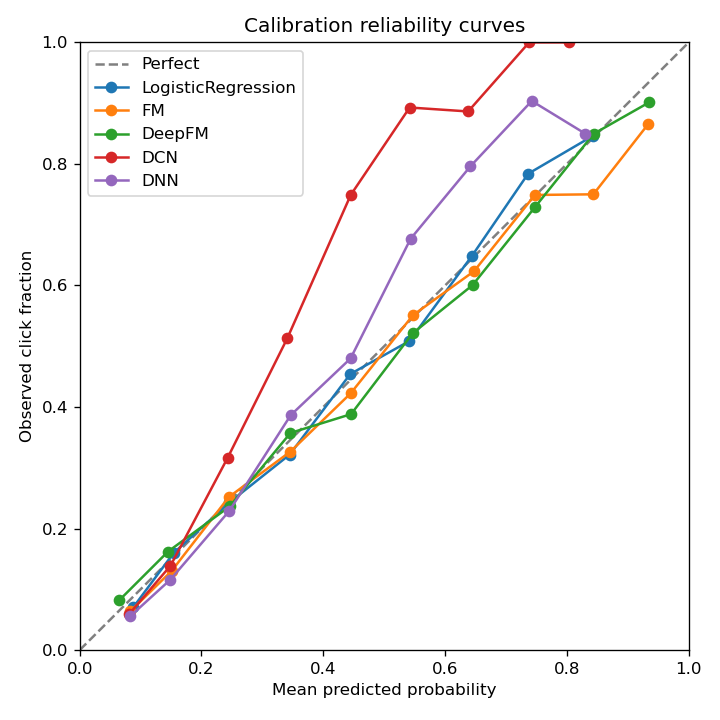
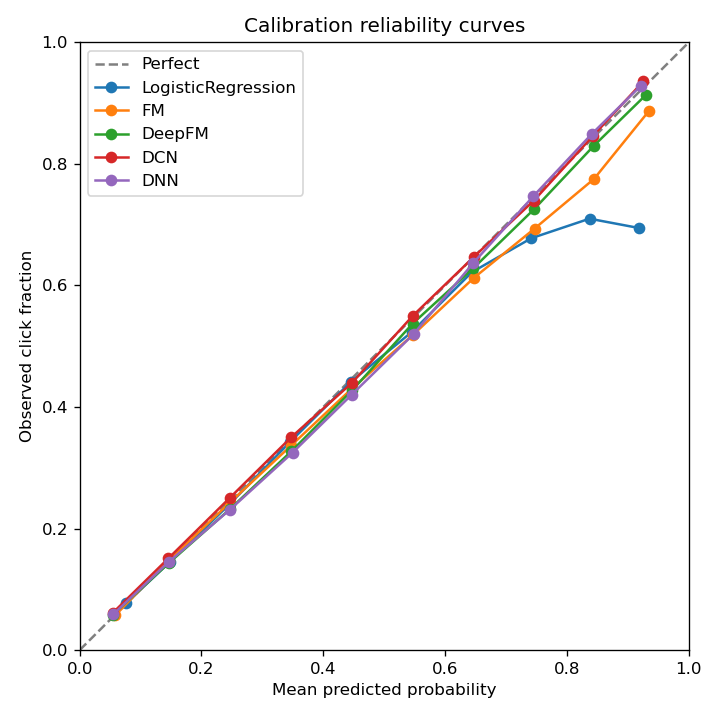
Report real Criteo benchmark results on 2M rows

diff --git a/README.md b/README.md
@@ -12,17 +12,17 @@ The project is built around the core problems of ad ranking systems. It covers r
 
 ## Results
 
-The table below comes from a run on 100000 synthetic rows with seed 42. Reproduce it with `python scripts/run_benchmark.py --sample-size 100000`. The same table is mirrored into `results/benchmark_report.md`. Models are sorted by test AUC.
+The table below comes from a run on 2 million rows of the real Criteo Display Advertising Challenge dataset, trained on the first 1.6 million rows with a temporal split and seed 42. The real Criteo click rate is about 25 percent and the categorical fields reach into the hundreds of thousands of unique values. After placing the Criteo file at `data/criteo.csv` you can reproduce this with `python scripts/run_benchmark.py --sample-size 2000000`. The same table is mirrored into `results/benchmark_report.md`. Models are sorted by test AUC.
 
 | Model | AUC | LogLoss | NE | RelaImpr | GAUC | ECE | Train s | Params |
 | --- | --- | --- | --- | --- | --- | --- | --- | --- |
-| DeepFM | 0.7789 | 0.4722 | 0.8141 | 0.1859 | 0.7646 | 0.0196 | 8.2 | 21.6M |
-| DCN | 0.7715 | 0.5046 | 0.8702 | 0.1298 | 0.7581 | 0.0678 | 9.6 | 21.6M |
-| DNN | 0.7708 | 0.4879 | 0.8412 | 0.1588 | 0.7571 | 0.0392 | 8.1 | 21.9M |
-| FM | 0.7419 | 0.5024 | 0.8662 | 0.1338 | 0.7246 | 0.0174 | 13.4 | 21.4M |
-| LogisticRegression | 0.6808 | 0.5365 | 0.9251 | 0.0749 | 0.6832 | 0.0102 | 0.2 | 53 |
+| DeepFM | 0.7872 | 0.4512 | 0.8130 | 0.1870 | 0.7873 | 0.0100 | 132 | 21.6M |
+| DCN | 0.7871 | 0.4508 | 0.8124 | 0.1876 | 0.7871 | 0.0052 | 140 | 21.6M |
+| DNN | 0.7863 | 0.4518 | 0.8141 | 0.1859 | 0.7864 | 0.0107 | 126 | 21.9M |
+| FM | 0.7828 | 0.4553 | 0.8205 | 0.1795 | 0.7829 | 0.0091 | 146 | 21.4M |
+| LogisticRegression | 0.7177 | 0.4983 | 0.8979 | 0.1021 | 0.7177 | 0.0057 | 11 | 53 |
 
-DeepFM, DCN, DNN, and FM all beat the logistic regression baseline. DeepFM leads at 0.7789 AUC against 0.6808 for logistic regression, a lift of about 0.098 AUC and a drop in normalized entropy from 0.925 to 0.814. The synthetic data carries deliberate pairwise categorical interactions that a linear model cannot represent from raw frequency features, so the interaction aware models pull ahead. Logistic regression stays the best calibrated model by ECE, which is a useful reminder that ranking power and calibration are different axes. See the methodology notes below and the dedicated document in `docs/METHODOLOGY.md` for the full reasoning.
+All four interaction aware models beat the logistic regression baseline on real Criteo data. DeepFM and DCN lead at about 0.787 AUC against 0.718 for logistic regression, a lift of about 0.069 AUC and a drop in normalized entropy from 0.898 to 0.813. On real Criteo the categorical features have very high cardinality, so hash encoding and embeddings are essential, and the high order feature interactions are what separate the deep models from the linear baseline. Every model stays well calibrated with expected calibration error under 0.011. These numbers are in line with published Criteo benchmarks given the bounded 10000 bucket hash space this framework uses to keep memory in check. For fast experiments with no download the benchmark also ships a synthetic generator with built in interactions, selected with the `--synthetic` flag. See the methodology notes below and the dedicated document in `docs/METHODOLOGY.md` for the full reasoning.
 
 ## Architecture
 
@@ -78,10 +78,16 @@ Each run reports budget utilization and a smoothness score, defined as the root 
 
 ```bash
 pip install -r requirements.txt
-python scripts/run_benchmark.py --sample-size 100000
+
+# Option A. Real Criteo data. Streams a 2 million row sample, about 1 GB.
+bash scripts/download_data.sh 2000000
+python scripts/run_benchmark.py --sample-size 2000000
+
+# Option B. No download. Synthetic data with built in interactions.
+python scripts/run_benchmark.py --synthetic --sample-size 100000
 ```
 
-The benchmark falls back to synthetic data automatically when no real Criteo file is present, so it runs end to end with no downloads. To use real data place a Criteo TSV or CSV at `data/criteo.csv` or pass `--data-path`. The download helper at `scripts/download_data.sh` tries to fetch a public Criteo sample and prints a message when it cannot, after which the benchmark uses synthetic data.
+The download helper streams a public figshare mirror of the real Criteo dataset and extracts only the rows requested, so a multi million row sample costs about 1 GB instead of the full 11 GB. If no real Criteo file is present at `data/criteo.csv` the benchmark falls back to the synthetic generator automatically, so it always runs end to end. You can also point at your own file with `--data-path`.
 
 Run the role aligned extensions on their own.
 

diff --git a/docs/METHODOLOGY.md b/docs/METHODOLOGY.md
@@ -1,6 +1,6 @@
 # Methodology
 
-This document explains the three methodological choices that make AdRankBench a faithful model of ad ranking rather than a generic classifier benchmark. The first is the temporal split. The second is the choice of normalized entropy and group AUC as headline metrics over raw AUC. The third is the design of the synthetic data, which is built so that interaction aware models can beat a linear baseline for the right reasons.
+This document explains the methodological choices that make AdRankBench a faithful model of ad ranking rather than a generic classifier benchmark. The first is the temporal split. The second is the choice of normalized entropy and group AUC as headline metrics over raw AUC. The third is the design of the synthetic data, which is built so that interaction aware models can beat a linear baseline for the right reasons. The last section documents the real Criteo run that produces the headline numbers in the README.
 
 All randomness in the project is seeded with seed 42 so every result is reproducible.
 
@@ -37,3 +37,11 @@ The label is the part that makes the benchmark work. Each categorical value carr
 This design is what lets the factorization machine family and the deep cross network earn their lead. FM models the pairwise interactions directly through low rank embeddings. DeepFM and DCN add deep towers and an explicit cross network on top. The plain DNN can approximate the interactions implicitly. The logistic regression baseline can only fit the linear part, so it is expected to trail. The intercept is tuned so the base click through rate lands roughly in the 0.2 to 0.3 band, which is a realistic range for the benchmark and keeps both classes well represented. The whole generator is deterministic given the seed, so the synthetic benchmark is as reproducible as a fixed dataset would be.
 
 To swap in real Criteo data, place a TSV or CSV at the data path and the loader will read it with the same schema and the same temporal split. The methodology above applies unchanged, since the synthetic generator was built to share the structure that makes the real data interesting.
+
+## Real Criteo Data
+
+The headline results in the README are produced on the real Criteo Display Advertising Challenge dataset, not on the synthetic generator. The data is fetched by `scripts/download_data.sh`, which streams a public figshare mirror of dac.tar.gz and extracts only the first N rows of the labeled train.txt. The stream is piped through head, which closes the pipe once N rows are read and stops the download early, so a 2 million row sample costs about 1 GB of transfer rather than the full 11 GB extracted file. The loader reads only the requested number of rows from disk, which keeps memory bounded on the large file.
+
+The real data confirms why the feature engineering matters. The true click rate is about 25 percent, since the Criteo training set subsamples negatives. The categorical fields are far higher cardinality than the synthetic ones, with several fields reaching into the hundreds of thousands of unique values even in a 2 million row sample and into the millions across the full set. This is why hash encoding is essential and one hot encoding is not an option. Numeric missingness is heavy and uneven, with some integer features missing in more than 70 percent of rows, which is exactly the case the is_missing indicators are built for.
+
+On a 2 million row sample with a temporal split the ordering matches the synthetic story and the published literature. The factorization machine family and the deep models reach about 0.787 AUC while logistic regression reaches about 0.718, a lift of roughly 0.069 AUC and a normalized entropy drop from about 0.898 to 0.813. All models stay well calibrated with expected calibration error under 0.011. The absolute AUC sits a little below the best published Criteo numbers because this framework caps the hash space at 10000 buckets per field to keep the embedding tables and memory bounded, which trades a small amount of accuracy for a benchmark that runs on a laptop. The relative comparison, which is the point of the benchmark, holds clearly.

diff --git a/results/benchmark_report.md b/results/benchmark_report.md
@@ -6,11 +6,11 @@ This report compares click through rate models on a shared featurized dataset. M
 
 | Model | AUC | LogLoss | NE | RelaImpr | GAUC | ECE | Train s | Params |
 | --- | --- | --- | --- | --- | --- | --- | --- | --- |
-| DeepFM | 0.7789 | 0.4722 | 0.8141 | 0.1859 | 0.7646 | 0.0196 | 8.1916 | 21616509 |
-| DCN | 0.7715 | 0.5046 | 0.8702 | 0.1298 | 0.7581 | 0.0678 | 9.5619 | 21620695 |
-| DNN | 0.7708 | 0.4879 | 0.8412 | 0.1588 | 0.7571 | 0.0392 | 8.0935 | 21894881 |
-| FM | 0.7419 | 0.5024 | 0.8662 | 0.1338 | 0.7246 | 0.0174 | 13.3763 | 21420028 |
-| LogisticRegression | 0.6808 | 0.5365 | 0.9251 | 0.0749 | 0.6832 | 0.0102 | 0.1677 | 53 |
+| DeepFM | 0.7872 | 0.4512 | 0.8130 | 0.1870 | 0.7873 | 0.0100 | 132.0263 | 21616509 |
+| DCN | 0.7871 | 0.4508 | 0.8124 | 0.1876 | 0.7871 | 0.0052 | 140.1897 | 21620695 |
+| DNN | 0.7863 | 0.4518 | 0.8141 | 0.1859 | 0.7864 | 0.0107 | 125.8154 | 21894881 |
+| FM | 0.7828 | 0.4553 | 0.8205 | 0.1795 | 0.7829 | 0.0091 | 145.7100 | 21420028 |
+| LogisticRegression | 0.7177 | 0.4983 | 0.8979 | 0.1021 | 0.7177 | 0.0057 | 11.4519 | 53 |
 
 ## Calibration
 
@@ -24,26 +24,26 @@ Top logistic regression coefficients by absolute magnitude. A larger magnitude m
 
 | Feature | Coefficient |
 | --- | --- |
-| freq_C4 | -0.8564 |
-| freq_C2 | 0.6299 |
-| num_0 | 0.6036 |
-| num_3 | 0.3207 |
-| freq_C3 | -0.3067 |
-| freq_C1 | -0.1921 |
-| num_15 | -0.0391 |
-| num_22 | 0.0338 |
-| num_9 | 0.0196 |
-| num_18 | -0.0183 |
-| freq_C16 | -0.0160 |
-| num_10 | -0.0144 |
-| freq_C19 | -0.0138 |
-| freq_C15 | -0.0119 |
-| num_12 | 0.0117 |
+| freq_C2 | 2.1069 |
+| freq_C25 | -1.8654 |
+| freq_C26 | 1.3529 |
+| freq_C24 | -1.2621 |
+| freq_C17 | 0.9193 |
+| num_17 | -0.8946 |
+| num_18 | -0.8522 |
+| freq_C4 | -0.8510 |
+| freq_C20 | 0.8260 |
+| freq_C14 | -0.6730 |
+| freq_C23 | 0.6315 |
+| freq_C3 | -0.4029 |
+| freq_C18 | -0.3758 |
+| freq_C12 | -0.3689 |
+| freq_C16 | -0.3686 |
 
 
 ## Key Observations
 
-The strongest model by test AUC is DeepFM. It ranks impressions better than the logistic regression baseline which scored 0.6808 AUC. Ranking quality is what an ad auction cares about most because the auction orders candidates before pricing them.
+The strongest model by test AUC is DeepFM. It ranks impressions better than the logistic regression baseline which scored 0.7177 AUC. Ranking quality is what an ad auction cares about most because the auction orders candidates before pricing them.
 
 The factorization machine family beats plain logistic regression because the synthetic clicks depend on pairwise interactions between categorical fields. Logistic regression only learns linear weights on single features, so it cannot capture the lift that appears when two category groups co occur. The FM second order term and the deep towers model those interactions directly, which is why they pull ahead on AUC and normalized entropy.
 
